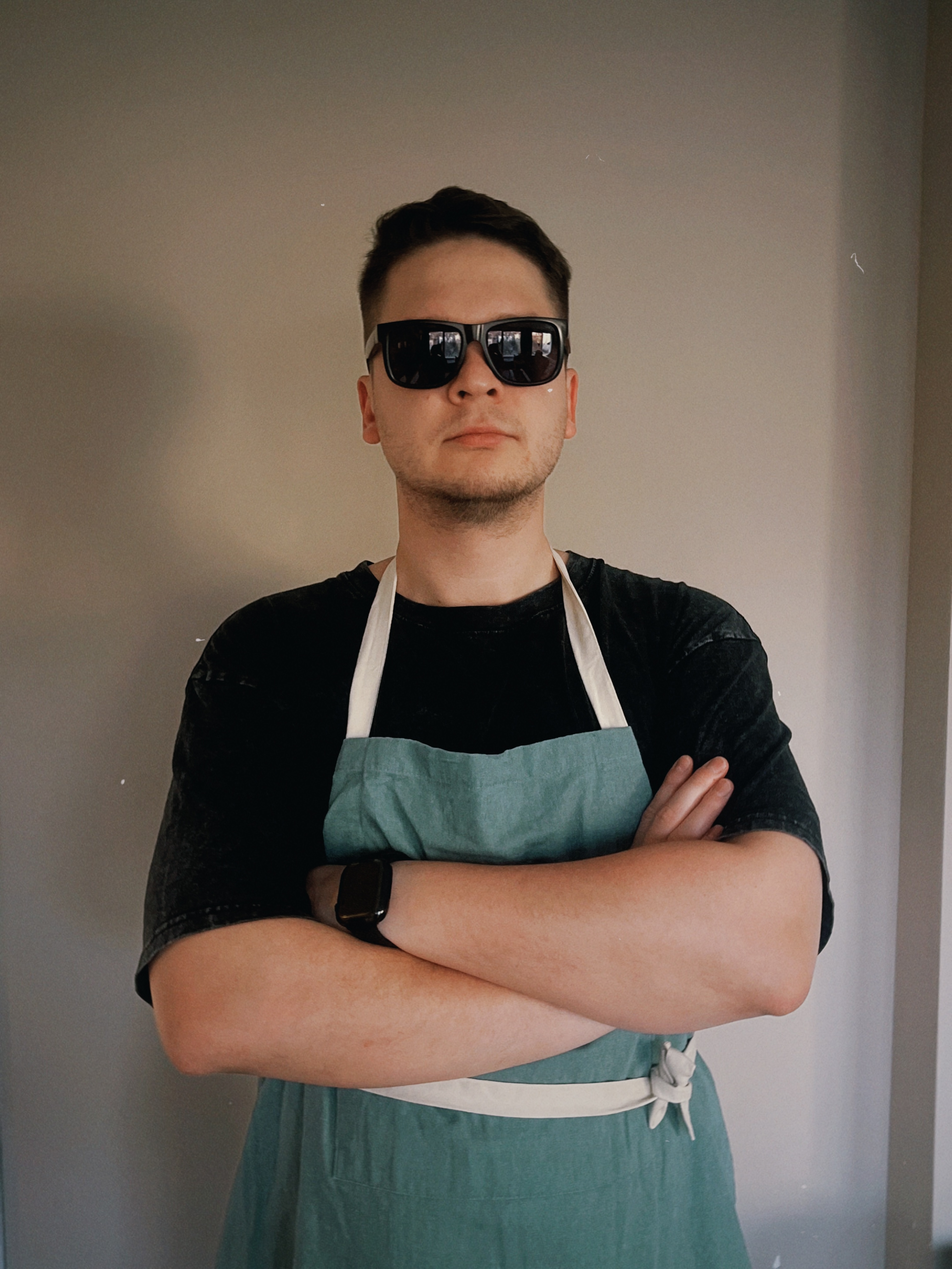
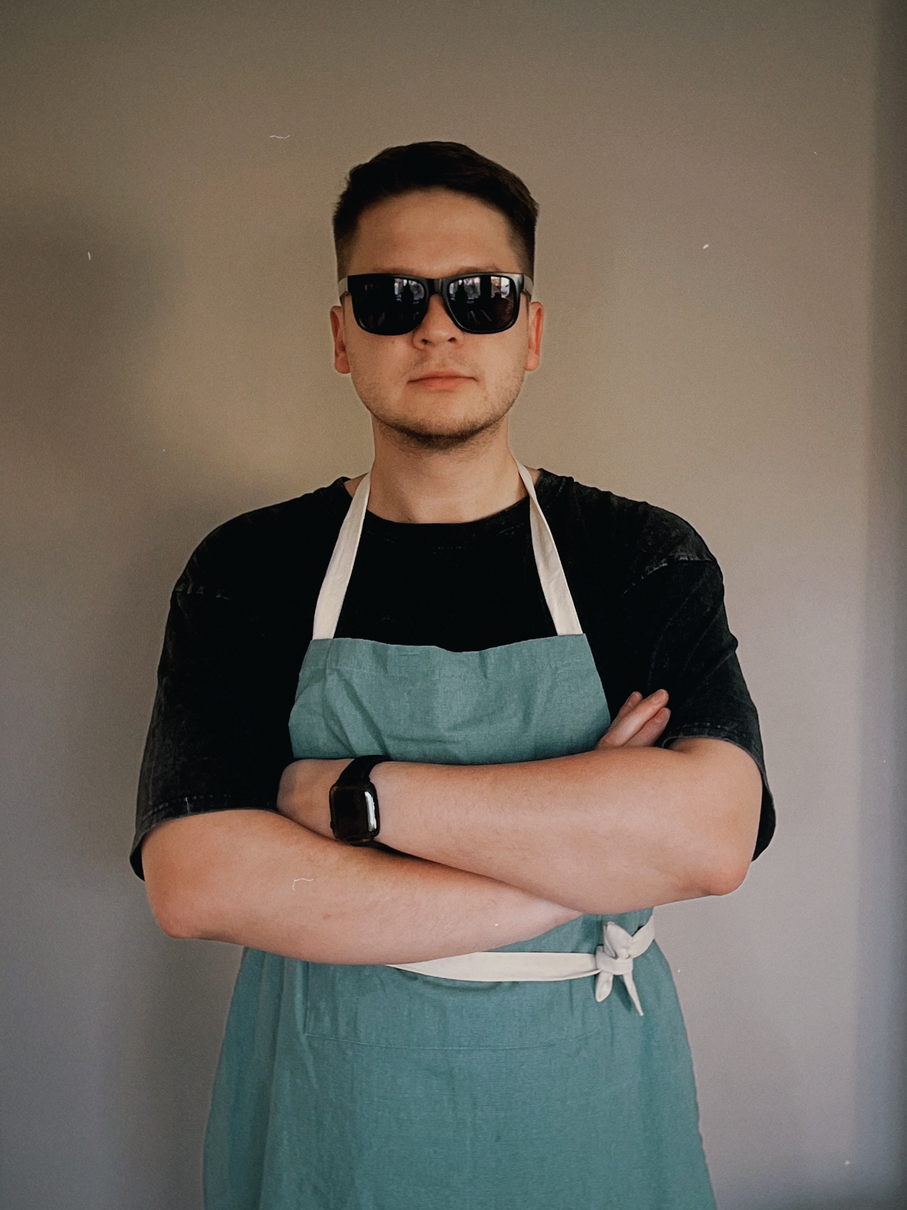
Update all photos, finalize styles

diff --git a/index.html b/index.html
@@ -47,8 +47,17 @@
                     <div class="chef-bio">
                         <p>He takes meat seriously. Maybe too seriously. Approach with caution and an empty stomach.</p>
                     </div>
+                </div>
+            </div>
+
+            <div class="chef-content reverse">
+                <div class="chef-image">
+                    <img src="img/chef2.jpg" alt="The Second Chef" onerror="this.style.display='none'; this.nextElementSibling.style.display='block'">
+                    <span class="placeholder-text" style="display: none;">SECOND SERIOS CHEF PHOTO</span>
+                </div>
+                <div class="chef-info">
                     <blockquote class="chef-quote">
-                        Damn, looks like I forgot to open one chest in "Fallout: New Vegas".
+                        Damn, looks like I forgot to open one chest in Fallout.
                     </blockquote>
                 </div>
             </div>
@@ -60,21 +69,21 @@
         <div class="product-grid">
             <div class="product-card">
                 <div class="image-placeholder">
-                    <img src="img/chicken-jerky.jpg" alt="Chicken Jerky Spicy" onerror="this.style.display='none'; this.nextElementSibling.style.display='block'">
-                    <span class="placeholder-text" style="display: none;">CHICKEN JERKY (SPICY)</span>
+                    <img src="img/chicken-jerky1.jpg" alt="Chicken Jerky Spicy" onerror="this.style.display='none'; this.nextElementSibling.style.display='block'">
+                    <span class="placeholder-text" style="display: none;">CHICKEN JERKY (MILD)</span>
                 </div>
-                <h3>Garlic Chicken</h3>
-                <p class="variant-text"><strong>SPICY</strong></p>
-                <p>The unexpected hero. Tender, bold, and kicks back.</p>
+                <h3>Asian Chicken</h3>
+                <p class="variant-text"><strong>ALMOST NO SPICY</strong></p>
+                <p>The unexpected hero. Tender, bold, and full of garlic soul.</p>
             </div>
             <div class="product-card">
                 <div class="image-placeholder">
-                    <img src="img/chicken-jerky.jpg" alt="Chicken Jerky Mild" onerror="this.style.display='none'; this.nextElementSibling.style.display='block'">
-                    <span class="placeholder-text" style="display: none;">CHICKEN JERKY (MILD)</span>
+                    <img src="img/chicken-jerky2.jpg" alt="Chicken Jerky Spicy" onerror="this.style.display='none'; this.nextElementSibling.style.display='block'">
+                    <span class="placeholder-text" style="display: none;">CHICKEN JERKY (SPICY)</span>
                 </div>
-                <h3>Garlic Chicken</h3>
-                <p class="variant-text"><strong>ALMOST NO SPICY</strong></p>
-                <p>The unexpected hero. Tender, bold, and gentle.</p>
+                <h3>Chili Chicken</h3>
+                <p class="variant-text"><strong>SPICY</strong></p>
+                <p>Infused with crushed chili flakes. A fiery kick that wakes you up.</p>
             </div>
             <div class="product-card sold-out-wrapper">
                 <div class="image-placeholder">
@@ -114,6 +123,18 @@
             <div class="gallery-item">
                 <img src="img/prep-3.jpg" alt="Meat Prep 3" onerror="this.style.display='none'; this.nextElementSibling.style.display='block'">
                 <span class="placeholder-text" style="display: none;">PREP 3</span>
+            </div>
+            <div class="gallery-item">
+                <img src="img/prep-4.jpg" alt="Meat Prep 4" onerror="this.style.display='none'; this.nextElementSibling.style.display='block'">
+                <span class="placeholder-text" style="display: none;">PREP 4</span>
+            </div>
+            <div class="gallery-item">
+                <img src="img/prep-5.jpg" alt="Meat Prep 5" onerror="this.style.display='none'; this.nextElementSibling.style.display='block'">
+                <span class="placeholder-text" style="display: none;">PREP 5</span>
+            </div>
+            <div class="gallery-item">
+                <img src="img/prep-6.jpg" alt="Meat Prep 6" onerror="this.style.display='none'; this.nextElementSibling.style.display='block'">
+                <span class="placeholder-text" style="display: none;">PREP 6</span>
             </div>
         </div>
     </section>

diff --git a/style.css b/style.css
@@ -266,6 +266,35 @@ h1, h2, h3, .brand-name, .section-title {
     text-align: left; /* Text aligned left on desktop */
 }
 
+.chef-content + .chef-content {
+    margin-top: -4rem;
+    padding-top: 0;
+}
+
+.chef-content.reverse {
+    flex-direction: row-reverse;
+}
+
+@media (max-width: 768px) {
+    .chef-content + .chef-content {
+        margin-top: 4rem;
+    }
+
+    .chef-content, .chef-content.reverse {
+        flex-direction: column;
+        gap: 2rem;
+        text-align: left;
+    }
+    
+    .chef-info {
+        width: 100%;
+    }
+
+    .chef-image {
+        margin: 0 auto;
+    }
+}
+
 .chef-image {
     flex: 0 0 300px; /* Fixed width for image */
     width: 300px;
@@ -454,7 +483,7 @@ h1, h2, h3, .brand-name, .section-title {
 
     .chef-content {
         flex-direction: column;
-        text-align: center;
+        text-align: left;
         gap: 3rem;
     }
 
@@ -466,10 +495,6 @@ h1, h2, h3, .brand-name, .section-title {
 
     .chef-quote {
         font-size: 1.5rem;
-        border-left: none;
-        border-top: 2px solid var(--text-color);
-        padding-left: 0;
-        padding-top: 1.5rem;
     }
 
     .product-grid {
